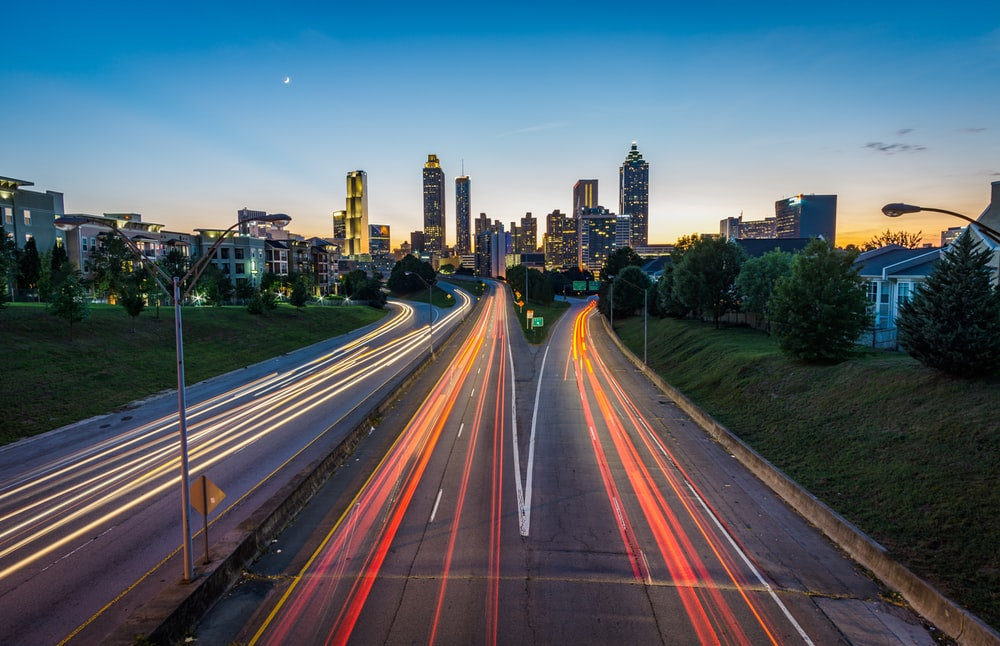
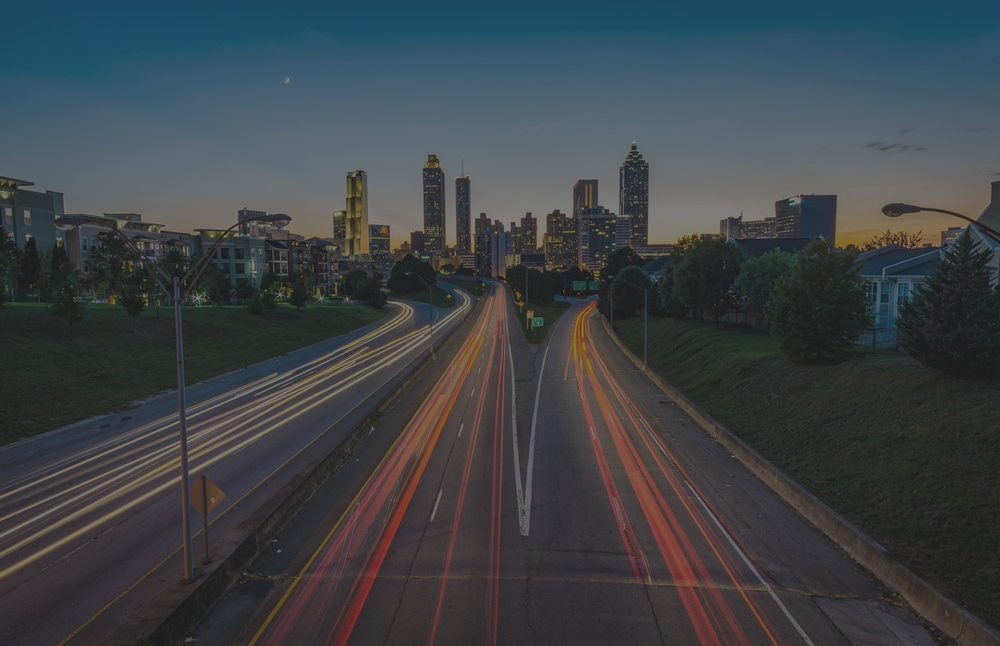
new anchor button, styled landing

diff --git a/src/components/app.js b/src/components/app.js
@@ -3,13 +3,13 @@ import { BrowserRouter as Router, Switch, Route } from "react-router-dom";
 import axios from "axios";
 import Banner from "./portfolio/banner.jpg";
 import { library } from "@fortawesome/fontawesome-svg-core";
-import { FontAwesomeIcon } from "@fortawesome/react-fontawesome";
 import {
   faTrash,
   faSignOutAlt,
   faEdit
 } from "@fortawesome/free-solid-svg-icons";
-
+import { FaGithub } from 'react-icons/fa';
+import { FaLinkedin } from 'react-icons/fa';
 import NavigationContainer from "./navigation/navigation-container";
 import Home from "./pages/home";
 import About from "./pages/about";
@@ -20,6 +20,7 @@ import PortfolioManager from "./pages/portfolio-manager";
 import PortfolioDetail from "./portfolio/portfolio-detail";
 import Auth from "./pages/auth";
 import NoMatch from "./pages/no-match";
+import { HashLink as Link } from 'react-router-hash-link';
 
 library.add(faTrash, faSignOutAlt, faEdit);
 
@@ -101,12 +102,24 @@ export default class App extends Component {
         <div className="banner" style={{
           backgroundImage: `url(${Banner})`,
           }}>
-          
+            <div className="banner-details">
+              <div className="name">Devin Lubis</div>
+              <div className="career">Full Stack Web Developer</div>
+              <hr></hr>
+              <div className="header-links">
+              
+                <a href="https://github.com/trewq90">
+                  <FaGithub /></a> 
 
-            <h1>Devin Lubis</h1>
-
-            <h1>Full Stack Web Developer.</h1>
-
+                <a href="https://www.linkedin.com/in/devin-setiady-a4b21717b/">
+                  <FaLinkedin /></a> 
+              </div>
+              
+              <div className="view-projects-button">
+                <Link to="/pathLink#portfolio-items-wrapper">My Projects</Link>
+              </div>
+              
+            </div>
           </div>
         </div>
 

diff --git a/src/style/portfolio.scss b/src/style/portfolio.scss
@@ -3,7 +3,7 @@ body{
   
 }
 
-.portfolio-items-wrapper {
+#portfolio-items-wrapper {
   display: grid;
   grid-template-columns: 1fr 1fr 1fr;
   background-color: white;
@@ -154,8 +154,71 @@ body{
   background-color: black;
 }
 
+.banner-details {
+  display: flex;
+  align-items: center;
+  flex-direction: column;
+  -ms-flex-wrap: wrap;
+  flex-wrap: wrap;
+  font-size: xx-large;
+  margin-right: -15px;
+  margin-left: -15px;
+  padding-top: 100px;
+}
+
+.name {
+  font-size: 7vh;
+  color: seashell;
+  font-weight: 600;
+}
+
+.career {
+  padding: 30px;
+  font-family: monospace;
+  color: seashell;
+  font-size: 5vh;
+}
+
+hr {
+  margin-top: 1rem;
+  margin-bottom: 1rem;
+  color: white;
+  width: 50vh;
+  background-color: white;
+  border: solid 1px white;
+}
+
+.header-links {
+  display: flex;
+  justify-content: space-around;
+  align-items: center;
+  width: 500px;
+  padding-bottom: 40px;
+}
+
+.view-projects-button {
+  border: 2px solid white;
+  padding: 12px 20px 12px 20px;
+  transition: .5s all;
+  text-decoration: none;
+  font-size: 20px;
+}
+
+.view-projects-button:hover {
+  background-color: #194346;
+  border: 2px solid #194346;
+  cursor: pointer;
+  transition: .5s all;
+}
+
 h1 {
   margin: 0;
   font-size: 50px;
+  padding: 20px;
+  font-family: inherit;
 }
 
+a {
+  color: white;
+  text-decoration: none;
+}

diff --git a/src/components/portfolio/portfolio-container.js b/src/components/portfolio/portfolio-container.js
@@ -1,6 +1,7 @@
 import React, { Component } from "react";
 import axios from "axios";
 import PortfolioItem from "./portfolio-item";
+import { HashLink as Link } from 'react-router-hash-link';
 
 export default class PortfolioContainer extends Component {
   constructor() {
@@ -52,11 +53,12 @@ export default class PortfolioContainer extends Component {
     }
 
     return (
-      
-
-        <div className="portfolio-items-wrapper">
-          
-          {this.portfolioItems()}
+        <div className="information-wrapper">
+          King of Fighters
+          <div id="portfolio-items-wrapper">
+            
+            {this.portfolioItems()}
+          </div>
         </div>
     );
   }

diff --git a/src/components/portfolio/portfolio-item.js b/src/components/portfolio/portfolio-item.js
@@ -1,4 +1,5 @@
 import React, { Component } from "react";
+import { FontAwesomeIcon } from "@fortawesome/react-fontawesome";
 import { Link } from "react-router-dom";
 
 export default class PortfolioItem extends Component {
@@ -48,7 +49,9 @@ export default class PortfolioItem extends Component {
         </div>
 
         <div className="important-links">
-          <a href={url} className="github-link">Github</a> 
+          <a href={url} className="github-link">Github
+          </a> 
+          
           <a href={url} className="live-link">Live</a> 
         </div>
 

diff --git a/src/style/navigation.scss b/src/style/navigation.scss
@@ -4,6 +4,7 @@
   padding: 10px;
   background: #292b2c;
   border-bottom: 3px solid #87dade;
+  position: flex;
 
   .right-side {
     color: white;
@@ -24,7 +25,7 @@
     display: flex;
     margin-left: 20px;
     justify-content: space-around;
-    width: 400px;
+    width: 600px;
   }
 
   .nav-link-wrapper {
